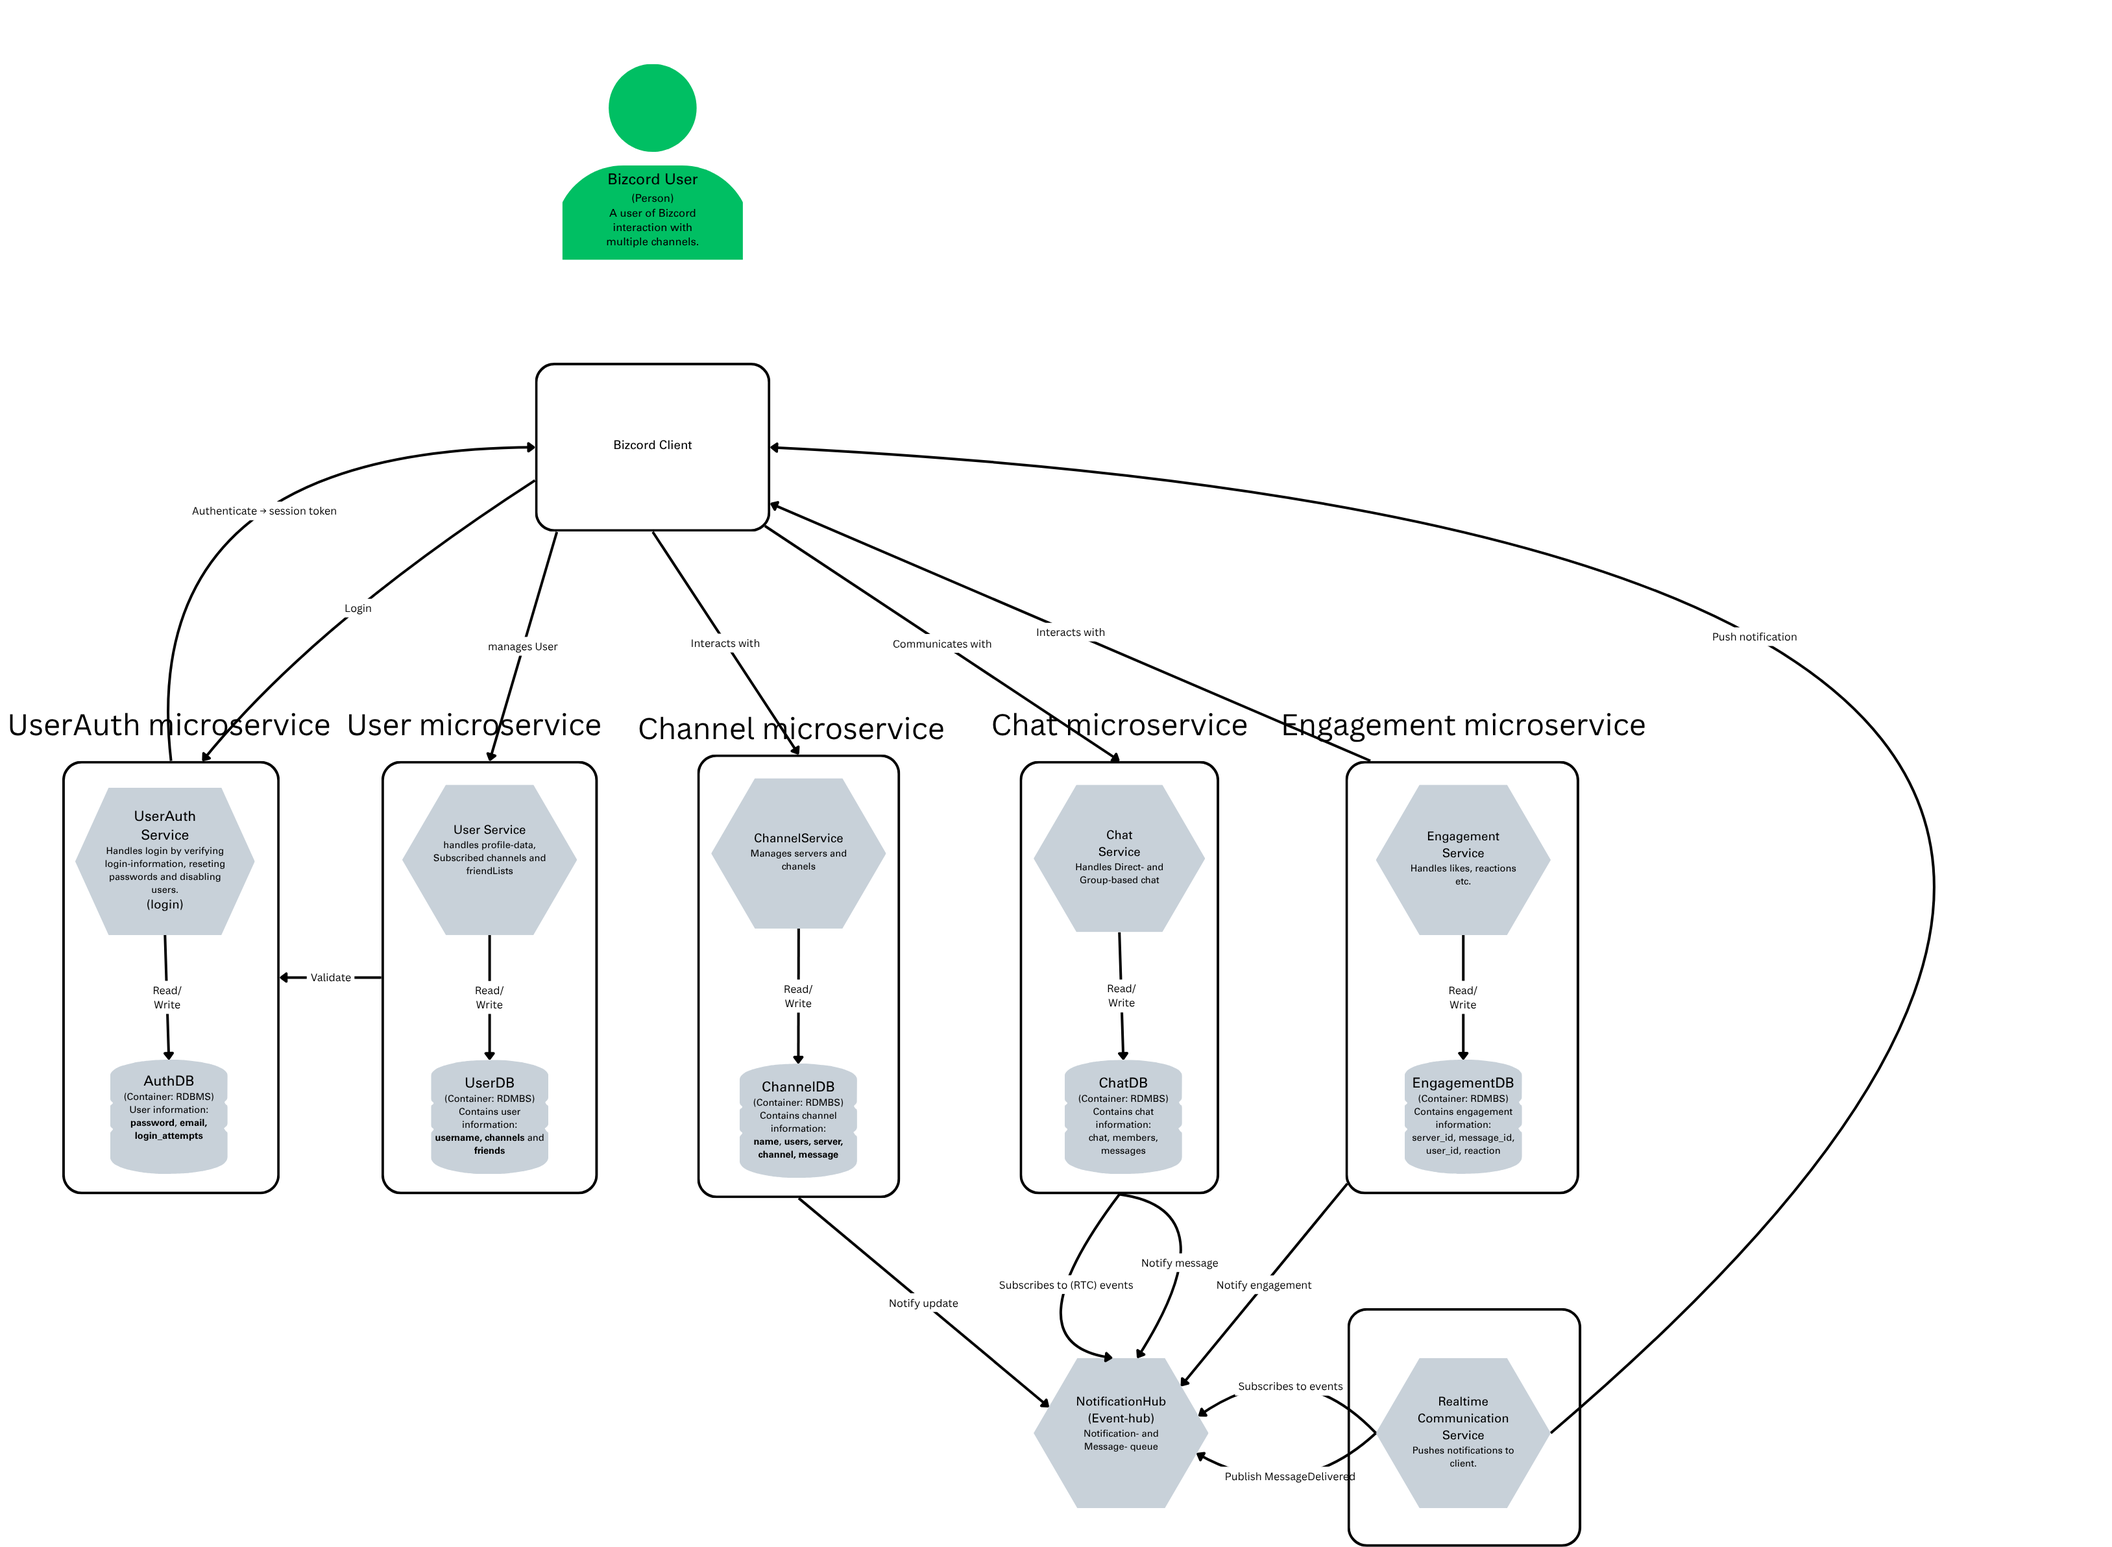
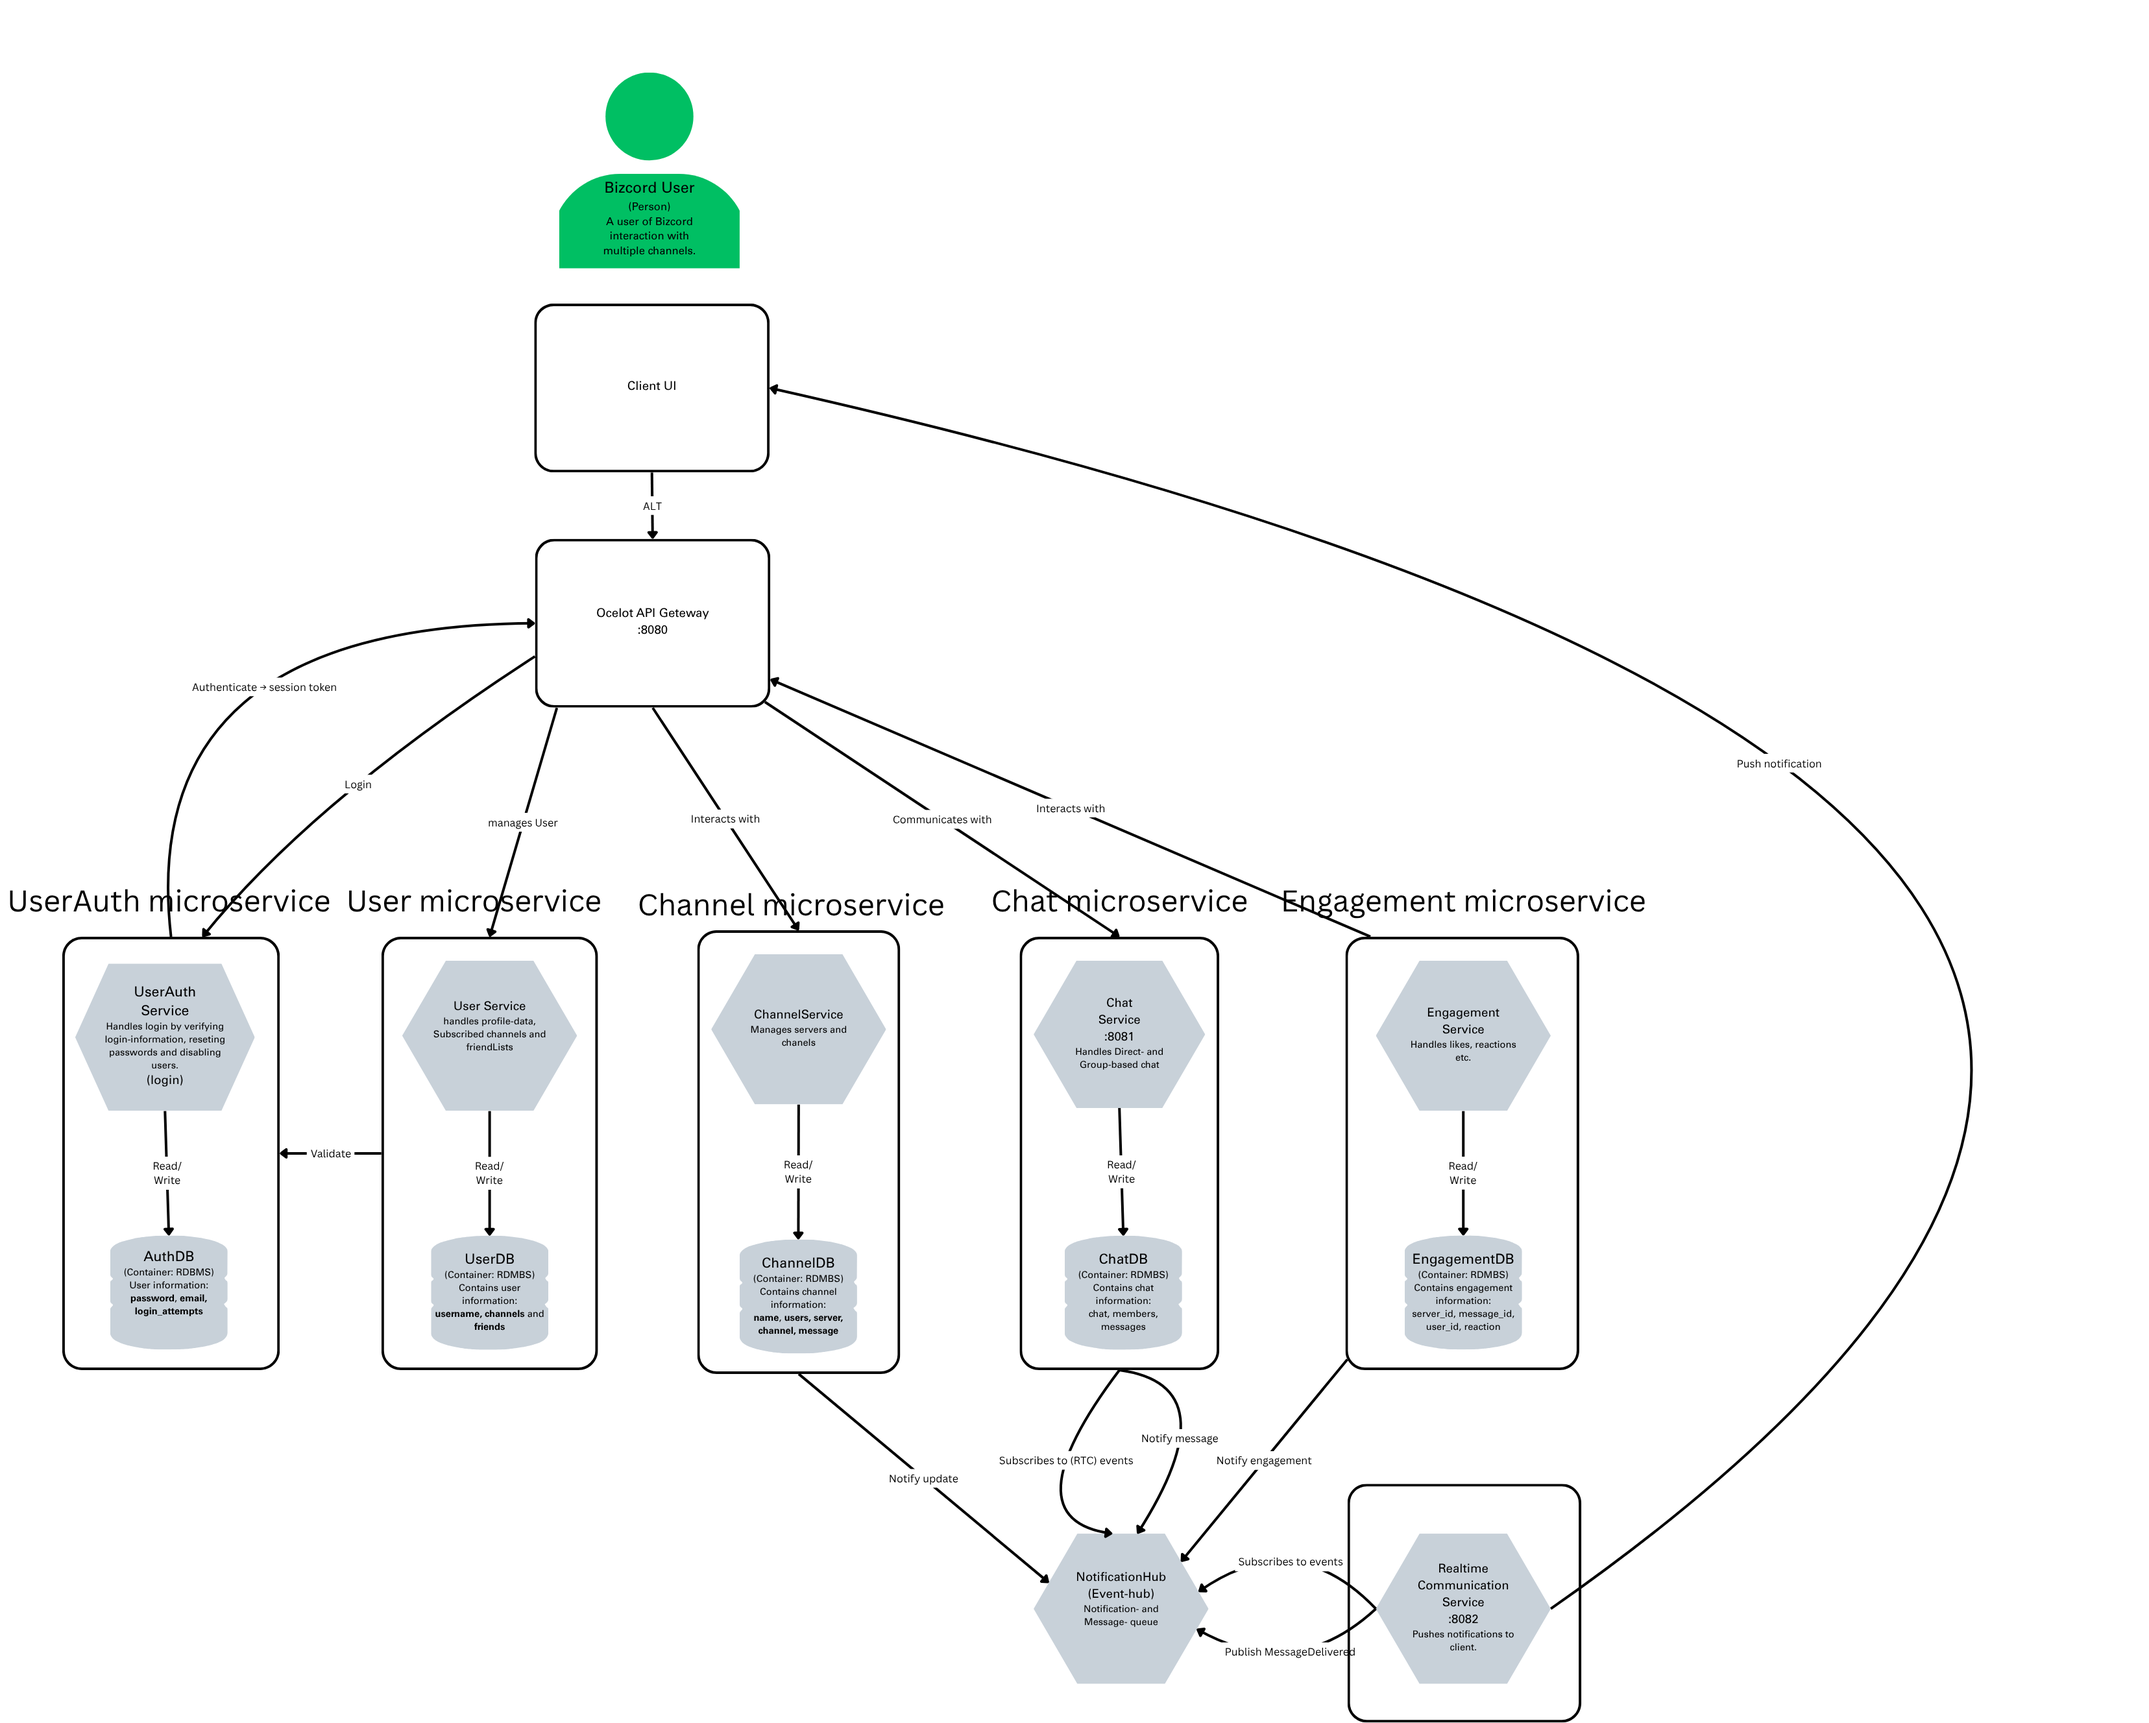
Add week 45 assignment and updated context map with API gateway

diff --git a/docs/weeks/uge-45-east-west_security.md b/docs/weeks/uge-45-east-west_security.md
@@ -1,0 +1,224 @@
+# East / West Security
+
+The goal of this task is to implement east/west security in your microservice.
+## Scope
+
+In this task you will implement east/west security in your microservice. You will use JWT tokens with roles and claims to protect your internal endpoints.
+## Task
+
+Continue to configure the mappings on the API gateway for your microservice. Identify the endpoints that should be restricted and thus only accessible by other microservices.
+
+Consider the following:
+
+1. What mechanism will you use to authenticate the incoming requests?
+2. What mechanism will you use to authorize the incoming requests?
+3. How will you implement the authentication and authorization logic?
+
+## Authentication mechanisms
+- JWT tokens
+- API keys
+- OAuth
+- Other (please specify which)
+
+## Example: authentication and authorization with Ocelot
+
+In your existing gateway, install *Ocelot* and *Microsoft.AspNetCore.Authentication.JwtBearer* versions compatible with your project's .NET version.
+
+### Program.cs
+```c#
+using Microsoft.AspNetCore.Authentication.JwtBearer;
+using Ocelot.DependencyInjection;
+using Ocelot.Middleware;
+
+var builder = WebApplication.CreateBuilder(args);
+builder.Configuration.AddJsonFile("ocelot.json");
+builder.Services.AddAuthentication()
+    .AddJwtBearer("Bearer", options =>
+    {
+        options.Authority = "https://your-identity-provider";
+        options.Audience = "internal-api";
+        options.MapInboundClaims = false; // Preserve the "role" claim name.
+    });
+builder.Services.AddOcelot(builder.Configuration);
+
+var app = builder.Build();
+await app.UseOcelot();
+await app.RunAsync();
+```
+### ocelot.json
+```json
+{
+  "Routes": [
+    {
+      "UpstreamPathTemplate": "/internal/ping",
+      "UpstreamHttpMethod": ["GET"],
+      "DownstreamPathTemplate": "/ping",
+      "DownstreamScheme": "http",
+      "DownstreamHostAndPorts": { "Host": "pingservice", "Port": 80 },
+      "AuthenticationOptions": {
+        "AuthenticationProviderKeys": ["Bearer"]
+      },
+      "RouteClaimsRequirement": {
+        "role": "internal-service"
+      }
+    }
+  ]
+}
+```
+Replace the issuer, audience and downstream address with your setup. The trusted issuer must issue a token for *internal-api* with the *claim role: internal-service*. Send it as *Authorization: Bearer <access-token>*.
+
+### Authentication: 
+the Bearer scheme validates the JWT; a missing or invalid token returns 401. **Authorization**: *RouteClaimsRequirement* checks the role; a valid token without that role returns 403. With both, Ocelot forwards the request. Also protect the receiving service if it can be called directly.
+
+Ocelot documentation: [Authentication](https://ocelot.readthedocs.io/en/latest/features/authentication.html)-[Authorization](https://ocelot.readthedocs.io/en/latest/features/authorization.html)
+
+# HashiCorp Vault integration
+
+The goal of this task is to integrate HashiCorp Vault in your microservice.
+## Contents
+- [Task]()
+- [Running Vault]()
+- [Initialization & unsealing]()
+- [Creating a secret]()
+- [Retrieving secrets in .NET]()
+- [Testing]()
+
+## Task
+
+Use Vault to store a secret used by your microservice, such as an API key or database connection string. Retrieve it at startup instead of keeping it in your source code.
+
+The example below uses Vault's HTTP API. You can also use the [.NET Vault Client](https://github.com/hashicorp/vault-client-dotnet).
+## Running Vault
+### Configuration
+
+Create a directory for Vault and save this as `config.hcl`:
+```json
+storage "file" {
+  path = "/vault/file"
+}
+listener "tcp" {
+  address = "0.0.0.0:8200"
+  tls_disable = 1
+}
+disable_mlock = true
+api_addr = "http://vault:8200"
+ui = true
+```
+### Docker Compose
+
+Save this as `compose.yaml` in the same directory:
+```yaml
+services:
+  vault:
+    image: hashicorp/vault:1.21.0
+    ports:
+      - "127.0.0.1:8200:8200"
+    volumes:
+      - ./config.hcl:/vault/config/config.hcl:ro
+      - vault-data:/vault/file
+    command: server
+    environment:
+      VAULT_ADDR: http://127.0.0.1:8200
+volumes:
+  vault-data:
+```
+Start Vault from that directory:
+```bash
+docker compose config --quiet
+docker compose up -d
+docker compose logs vault
+```
+This setup is for local development. It uses HTTP and disables memory locking. The published port is only accessible from your computer. Use TLS and an appropriate server configuration for deployment.
+## Initialization & unsealing
+
+Open [http://localhost:8200](http://localhost:8200). Initialize Vault with **Key Shares = 3** and **Key Threshold = 2**.
+
+Save the root token and unseal keys securely. Enter two different unseal keys to unseal Vault, then sign in with the root token.
+
+Initialize Vault only once. After a restart, unseal it with the same keys. The named Docker volume keeps your data; `docker compose down -v` deletes it.
+## Creating a secret
+
+Open a shell in the Vault container and enter your root token at the login prompt:
+```bash
+docker compose exec vault sh
+vault login
+```
+Enable the KV v2 secrets engine, store an example API key and create a policy that only allows reading that secret:
+```shell
+vault secrets enable -path=secret kv-v2
+vault kv put secret/pingpong ApiKey=classroom-demo-only
+printf 'path "secret/data/pingpong" { capabilities = ["read"] }' | vault policy write pingpong-read -
+vault token create -policy=pingpong-read -no-default-policy -ttl=1h
+exit
+```
+Enable `secret/` only once. If it already exists, check that it uses KV v2.
+
+Copy the application token returned by `vault token create`. Use this token in your microservice. It expires after one hour and cannot write secrets or read other paths. Keep the root token for administration.
+## Retrieving secrets in .NET
+
+Create a console project to try the integration:
+
+`dotnet new console -n VaultRead`
+
+Replace `VaultRead/Program.cs` with:
+```c#
+using System.Net;
+using System.Text.Json;
+
+var address = Environment.GetEnvironmentVariable("VAULT_ADDR")
+    ?? "http://localhost:8200";
+var token = Environment.GetEnvironmentVariable("VAULT_TOKEN")
+    ?? throw new InvalidOperationException("Set VAULT_TOKEN to the scoped application token.");
+using var client = new HttpClient
+{
+    BaseAddress = new Uri(address.TrimEnd('/') + "/"),
+    Timeout = TimeSpan.FromSeconds(5)
+};
+client.DefaultRequestHeaders.Add("X-Vault-Token", token);
+using var response = await client.GetAsync("v1/secret/data/pingpong");
+if (response.StatusCode == HttpStatusCode.Forbidden)
+    throw new InvalidOperationException("Vault denied access: check token, TTL and policy.");
+response.EnsureSuccessStatusCode();
+using var document = JsonDocument.Parse(await response.Content.ReadAsStringAsync());
+var apiKey = document.RootElement.GetProperty("data").GetProperty("data")
+    .GetProperty("ApiKey").GetString();
+if (string.IsNullOrWhiteSpace(apiKey))
+    throw new InvalidOperationException("Vault secret ApiKey is missing or empty.");
+// Use apiKey to configure the downstream client; never log or return its value.
+Console.WriteLine("Vault secret loaded successfully (value not displayed).");
+```
+Set the Vault address and application token in your terminal, then run the project.
+### macOS / Linux
+```ps
+export VAULT_ADDR=http://localhost:8200
+read -s VAULT_TOKEN
+export VAULT_TOKEN
+dotnet run --project VaultRead
+```
+After `read -s VAULT_TOKEN`, paste the application token and press Enter. The token is not displayed.
+### Windows PowerShell
+```ps
+$env:VAULT_ADDR = "http://localhost:8200"
+$secureToken = Read-Host "Application token" -AsSecureString
+$env:VAULT_TOKEN = [System.Net.NetworkCredential]::new("", $secureToken).Password
+dotnet run --project VaultRead
+```
+You should see `Vault secret loaded successfully (value not displayed)`.
+
+KV v2 returns the secret under `data.data`. The HTTP path is `/v1/secret/data/pingpong`; the CLI path is `secret/pingpong`.
+### In your microservice
+
+Use the same retrieval code during startup and pass the secret to the client that needs it. Supply the token at runtime; do not commit tokens or print secret values.
+
+If your microservice runs in Docker, put it on the same network as Vault and use `http://vault:8200`. Inside a container, `localhost` refers to that container.
+## Testing
+
+Check that your microservice can read the secret. Then try the following:
+
+- Use an invalid token. Vault should return 403.
+- Try reading another path or overwriting the secret with the application token. Both should return 403.
+- Run `docker compose restart vault`. Requests should fail while Vault is sealed. Unseal it with two of your original keys and check that the secret is still there.
+
+## Example repository
+
+The [Ping/Pong vault branch](https://github.com/patrickstolc/ping-pong-microservices/tree/vault) shows a client-library integration. When adapting it, replace the hard-coded login credentials with runtime configuration and remove the secret logging.
